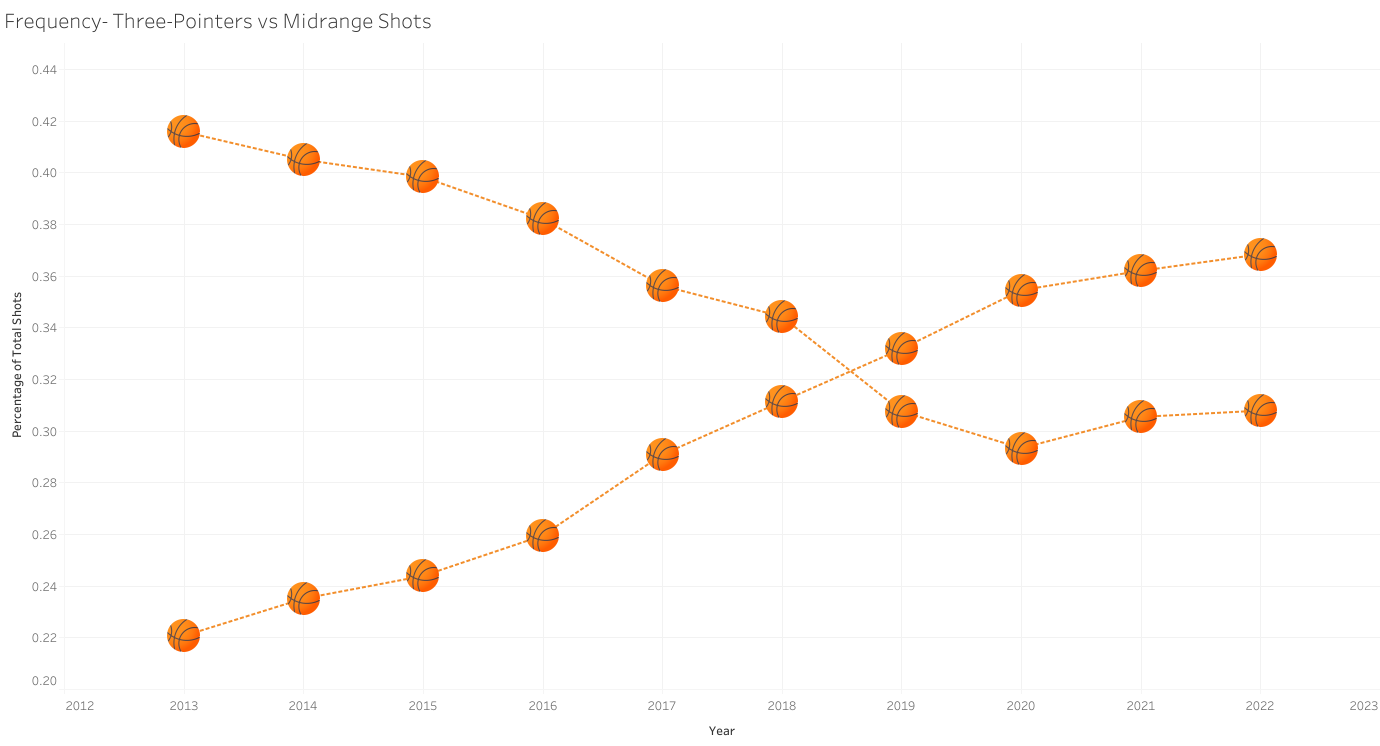
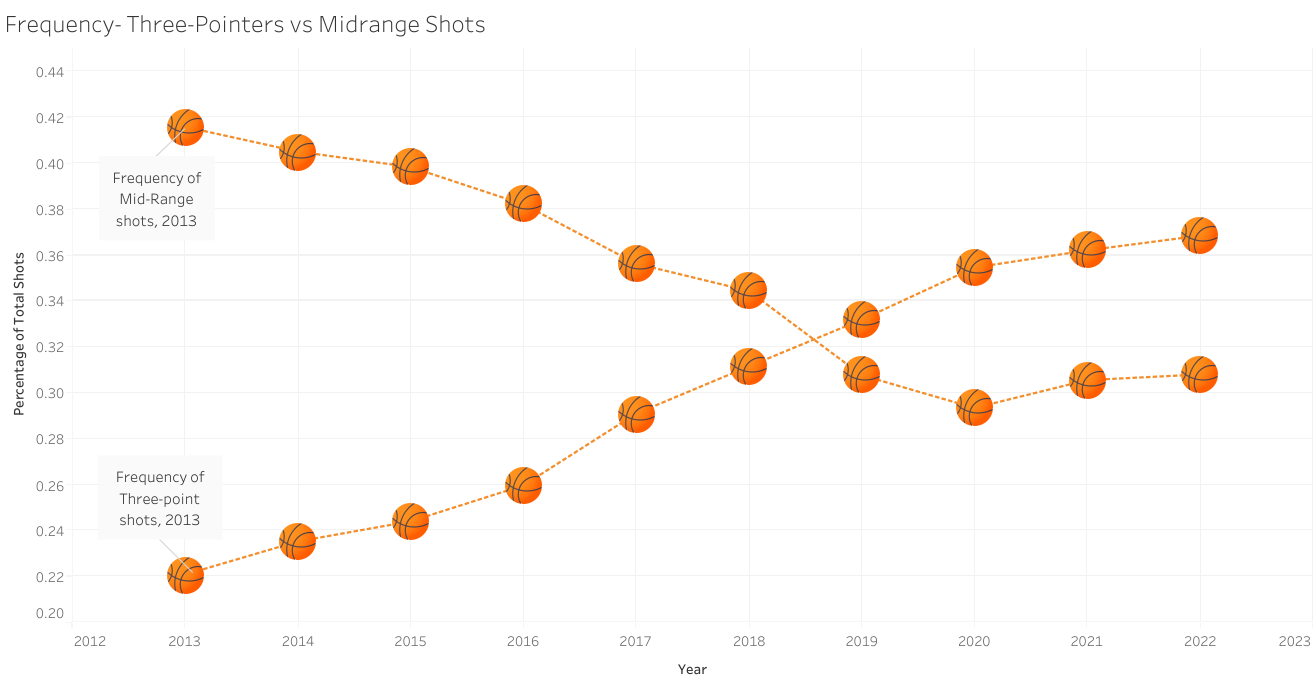
added markers on basketballs png

diff --git a/README.md b/README.md
@@ -84,11 +84,13 @@ However if you're already a good team, and you have higher goals like making the
 
 ## Conclusions
 
-The rush to eschew the midrange in favor of shooting globs of threes, is understandable.  The pure mathematics behind it make sense.  If you shoot 100 two point shots, and make 50% of them, you're scorring 100 points per 100 possessions.  If you shoot 100 three pointers, and make just 34% of them, you wind up with a more efficient 102 points per 100 possessions.  If you are a team in the NBA that hasn't had much success, it's hard to argue this might be the quickest way to turn things around--to play a data-driven approach to offense.  
+![basketball line plot comparison threes v midrange from 2013-2022](https://github.com/aothree/NBA-Style-of-Play/blob/master/Visuals/Three%20Point%20Frequency%20vs%20Midrange%20Frequency.png)
+
+The rush to eschew the midrange in favor of shooting globs of threes, is understandable.  The pure mathematics behind it make sense.  If you shoot 100 two point shots, and make 50% of them, you're scorring 100 points per 100 possessions.  If you shoot 100 three pointers, and make just 34% of them, you wind up with a more efficient 102 points per 100 possessions.  If you are a team in the NBA that hasn't had much success, it's hard to argue this might be the quickest way to turn things around--to play a data-driven approach to offense.  This shows in that Cluster 0 teams made the playoffs at the highest rate of any cluster.
 
 But, this isn't the only way.  As the performance metrics in Cluster 2 show--it seems like the new-age Cluster 0 style of play actually may not be the best way to get to the Finals and win championships.  
 
-If you're still not convinced, look no further than the last two seasons.  The Milwaukee Bucks and Phoenix Suns made the 2021 Finals while shooting three pointers with 37.6% and 36.6% frequency, good for 12th and 15th in terms of frequency across the league.  The 2022 Phoenix Suns just finished the regular season with a league-best 64-18 record, and are the favorites in Vegas to win the championship.  What did their style of play look like?  They shot the 5th *fewest* threes in the league this year--at only a 33% frequency.  What about dreaded inefficient mid-range shots?  Phoenix shot 41.7% of their shots from the midrange--the most in the league.  
+If you're still not convinced and think nuance of style of play is a thing of the past, look no further than the last two seasons.  The Milwaukee Bucks and Phoenix Suns made the 2021 Finals while shooting three pointers with 37.6% and 36.6% frequency, good for 12th and 15th in terms of frequency across the league.  The 2022 Phoenix Suns just finished the regular season with a league-best 64-18 record, and are the favorites in Vegas to win the championship.  What did their style of play look like?  They shot the 5th *fewest* threes in the league this year--at only a 33% frequency.  What about dreaded inefficient mid-range shots?  Phoenix shot 41.7% of their shots from the midrange--the most in the league.  
 
 ## Next Steps
 
